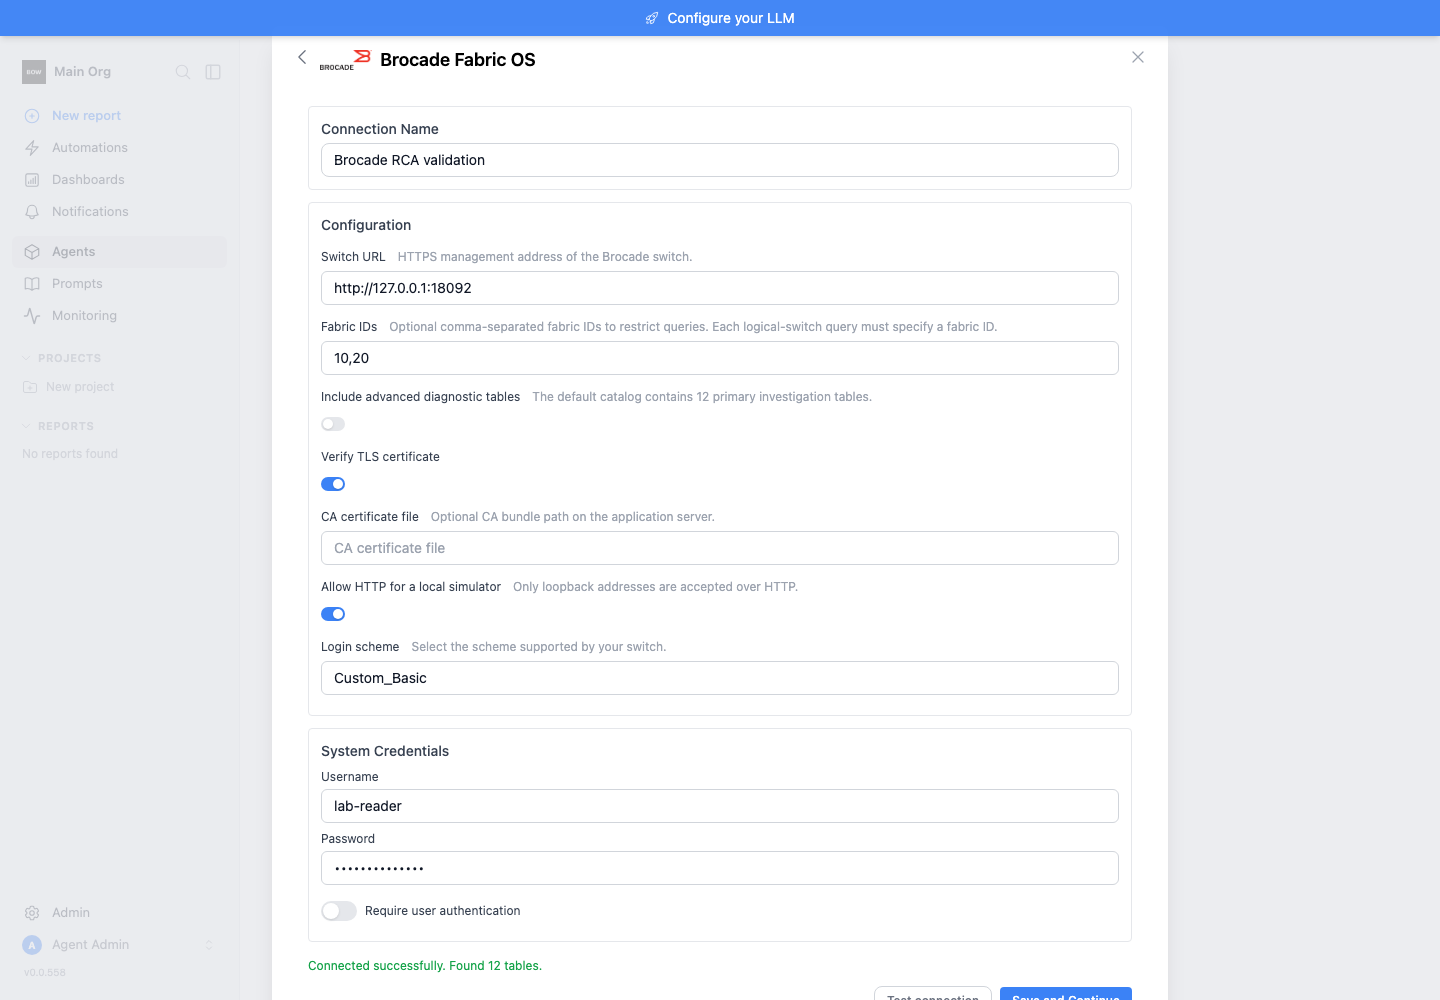
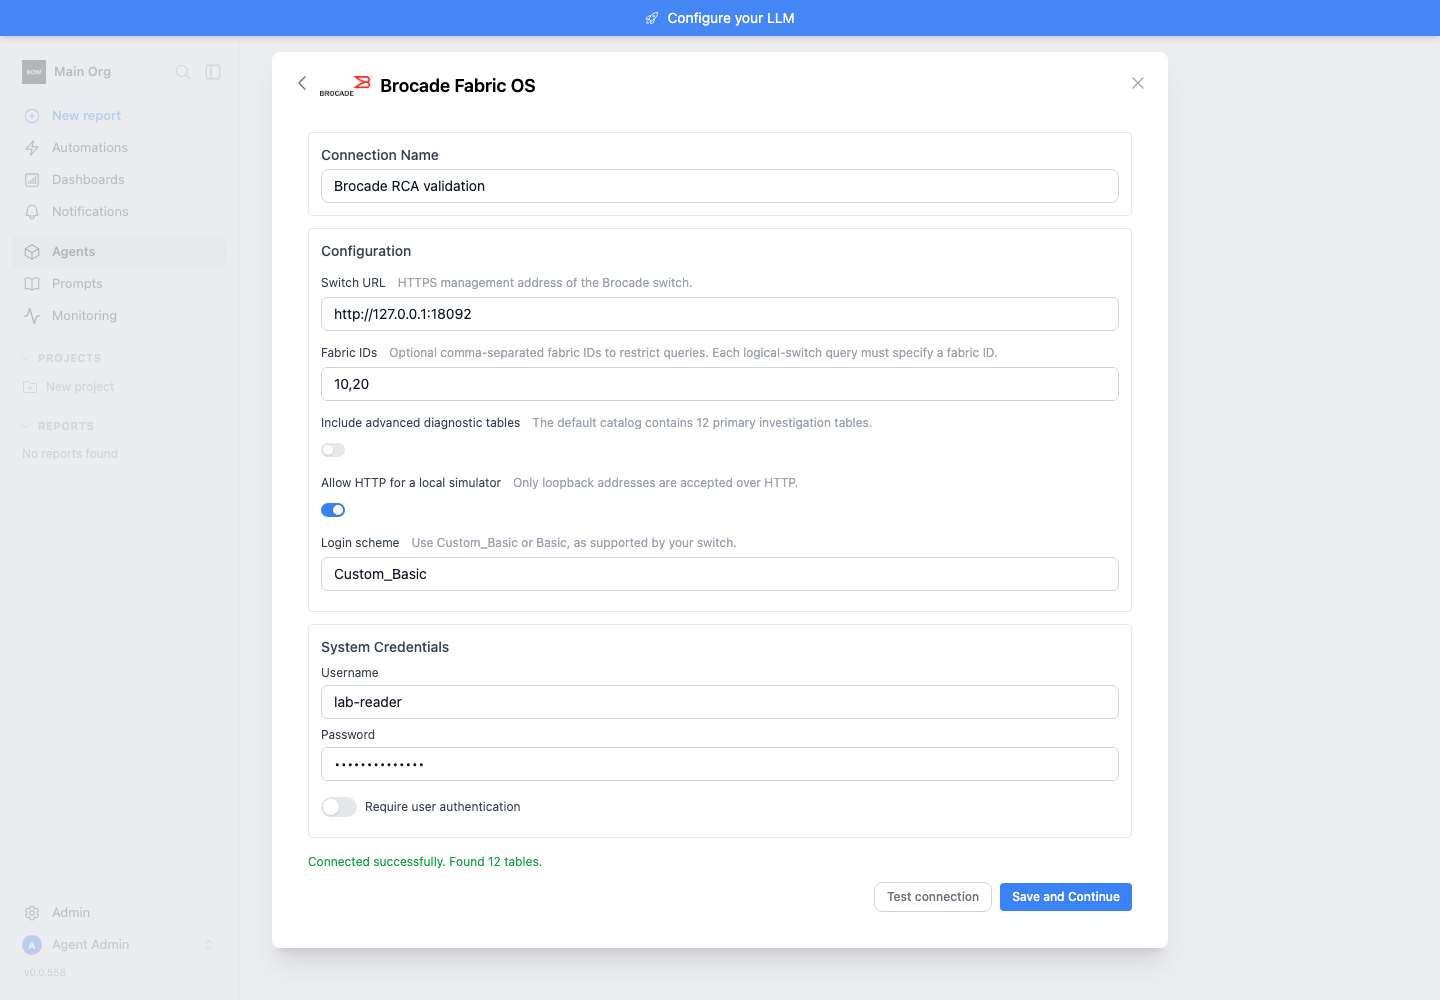
fix(brocade): use deployment-managed certificate trust

Changed region(s): [[0.2188, 0.124, 0.6875, 0.868], [0.1875, 0.868, 0.8125, 1.0], [0.2188, 0.031, 0.375, 0.093]]

diff --git a/backend/tests/integrations/test_brocade_tls.py b/backend/tests/integrations/test_brocade_tls.py
@@ -1,0 +1,60 @@
+"""Real HTTPS trust check with an ephemeral certificate and synthetic API."""
+import importlib.util
+import ipaddress
+import ssl
+import threading
+from datetime import datetime, timedelta, timezone
+from http.server import ThreadingHTTPServer
+from pathlib import Path
+
+import pytest
+from cryptography import x509
+from cryptography.hazmat.primitives import hashes, serialization
+from cryptography.hazmat.primitives.asymmetric import rsa
+from cryptography.x509.oid import NameOID
+
+from app.data_sources.clients.brocade_client import BrocadeClient, BrocadeError
+
+
+def test_deployment_ca_enforces_chain_and_hostname(tmp_path, monkeypatch):
+    spec = importlib.util.spec_from_file_location(
+        'brocade_tls_sim', Path(__file__).resolve().parents[3] / 'tools/brocade/simulated_api.py')
+    sim = importlib.util.module_from_spec(spec)
+    spec.loader.exec_module(sim)
+    key = rsa.generate_private_key(public_exponent=65537, key_size=2048)
+    name = x509.Name([x509.NameAttribute(NameOID.COMMON_NAME, 'Synthetic Brocade TLS test')])
+    now = datetime.now(timezone.utc)
+    certificate = (x509.CertificateBuilder().subject_name(name).issuer_name(name)
+        .public_key(key.public_key()).serial_number(x509.random_serial_number())
+        .not_valid_before(now - timedelta(minutes=1)).not_valid_after(now + timedelta(hours=1))
+        .add_extension(x509.BasicConstraints(ca=True, path_length=None), critical=True)
+        .add_extension(x509.SubjectAlternativeName([x509.IPAddress(ipaddress.ip_address('127.0.0.1'))]), critical=False)
+        .sign(key, hashes.SHA256()))
+    ca_path, key_path = tmp_path / 'ca.pem', tmp_path / 'key.pem'
+    ca_path.write_bytes(certificate.public_bytes(serialization.Encoding.PEM))
+    key_path.write_bytes(key.private_bytes(serialization.Encoding.PEM,
+        serialization.PrivateFormat.PKCS8, serialization.NoEncryption()))
+    key_path.chmod(0o600)
+    context = ssl.SSLContext(ssl.PROTOCOL_TLS_SERVER)
+    context.load_cert_chain(ca_path, key_path)
+    server = ThreadingHTTPServer(('127.0.0.1', 0), sim.Handler)
+    server.socket = context.wrap_socket(server.socket, server_side=True)
+    thread = threading.Thread(target=server.serve_forever, daemon=True)
+    monkeypatch.setenv('BROCADE_SIM_USER', 'lab-reader')
+    monkeypatch.setenv('BROCADE_SIM_PASSWORD', 'synthetic-only')
+    thread.start()
+    port = server.server_address[1]
+    try:
+        monkeypatch.delenv('REQUESTS_CA_BUNDLE', raising=False)
+        client = BrocadeClient(f'https://127.0.0.1:{port}', 'lab-reader', 'synthetic-only')
+        with pytest.raises(BrocadeError, match='TransportError'):
+            client.get_tables()
+        monkeypatch.setenv('REQUESTS_CA_BUNDLE', str(ca_path))
+        assert len(client.get_tables()) == 12
+        wrong_hostname = BrocadeClient(f'https://localhost:{port}', 'lab-reader', 'synthetic-only')
+        with pytest.raises(BrocadeError, match='TransportError'):
+            wrong_hostname.get_tables()
+    finally:
+        server.shutdown()
+        server.server_close()
+        thread.join(timeout=5)

diff --git a/backend/app/data_sources/clients/brocade_client.py b/backend/app/data_sources/clients/brocade_client.py
@@ -6,6 +6,7 @@ customer FOS 9.1.1c compatibility still requires a real-switch acceptance pass.
 import base64
 import json
 import math
+import os
 import re
 import threading
 import time
@@ -112,7 +113,7 @@ class BrocadeClient(DataSourceClient):
     relative_date_hint = 'Use lookback="30m" or "24h" on events/congestion_samples; port_statistics has no arbitrary history.'
 
     def __init__(self, url, username, password, vf_ids='', include_advanced=False,
-                 verify_ssl=True, ca_bundle=None, allow_http=False, login_scheme='Custom_Basic',
+                 allow_http=False, login_scheme='Custom_Basic',
                  timeout=30, max_rows=10000, max_response_bytes=8388608):
         parsed = urlsplit(str(url))
         if (parsed.scheme not in ('http', 'https') or not parsed.hostname or parsed.username or
@@ -136,7 +137,6 @@ class BrocadeClient(DataSourceClient):
         self.url = str(url).rstrip('/')
         self.username, self.password = username, password
         self.include_advanced = include_advanced
-        self.verify = ca_bundle or verify_ssl
         self.login_scheme, self.timeout = login_scheme, timeout
         self.max_rows, self.max_response_bytes = max_rows, max_response_bytes
         self._definitions = definitions()
@@ -166,7 +166,7 @@ class BrocadeClient(DataSourceClient):
             try:
                 with session.request(method, self.url + path,
                         params={'vf-id': vf_id} if vf_id is not None else None,
-                        timeout=min(self.timeout, remaining), verify=self.verify,
+                        timeout=min(self.timeout, remaining), verify=session.verify,
                         allow_redirects=False, stream=True) as response:
                     body = bytearray()
                     for chunk in response.iter_content(65536):
@@ -223,6 +223,8 @@ class BrocadeClient(DataSourceClient):
             deadline = time.monotonic() + 120
             with requests.Session() as session:
                 session.trust_env = False
+                # Match SharePoint Server: CA trust is deployment-owned; never disable TLS verification.
+                session.verify = os.environ.get("REQUESTS_CA_BUNDLE") or True
                 token = base64.b64encode(f'{self.username}:{self.password}'.encode()).decode()
                 session.headers.update({'Authorization': self.login_scheme + ' ' + token,
                     'Accept': 'application/yang-data+xml', 'Content-Type': 'application/yang-data+xml',

diff --git a/backend/tests/unit/test_brocade_client.py b/backend/tests/unit/test_brocade_client.py
@@ -251,3 +251,26 @@ def test_hardware_union_preserves_fractional_temperatures(client, boundary):
     assert next(c.dtype for c in schema.columns if c.name == 'temperature') == 'number'
     frame = client.execute_query(table='hardware', filter={'temperature': {'gt': 42.1}})
     assert len(frame) == 1 and frame.iloc[0]['temperature'] == 42.5
+
+
+@pytest.mark.parametrize('bundle', [None, '', '/etc/bow/company-ca.pem'])
+def test_tls_trust_uses_deployment_ca_with_verification_enabled(boundary, monkeypatch, bundle):
+    if bundle is None:
+        monkeypatch.delenv('REQUESTS_CA_BUNDLE', raising=False)
+    else:
+        monkeypatch.setenv('REQUESTS_CA_BUNDLE', bundle)
+    observed = []
+    original = requests.Session.request
+    def request(session, method, url, **kwargs):
+        observed.append(kwargs.get('verify', session.verify))
+        return original(session, method, url, **kwargs)
+    monkeypatch.setattr(requests.Session, 'request', request)
+    BrocadeClient('https://switch.example', 'lab-reader', 'synthetic-only').get_tables()
+    assert observed and all(value == (bundle or True) for value in observed)
+
+
+def test_connection_form_does_not_expose_certificate_overrides():
+    from app.schemas.data_sources.configs import BrocadeConfig
+    properties = BrocadeConfig.model_json_schema()['properties']
+    assert 'ca_bundle' not in properties
+    assert 'verify_ssl' not in properties

diff --git a/backend/app/schemas/data_sources/configs.py b/backend/app/schemas/data_sources/configs.py
@@ -3645,8 +3645,6 @@ class BrocadeConfig(BaseModel):
     url: str = Field(..., title="Switch URL", description="HTTPS management address of the Brocade switch.", json_schema_extra={"ui:type": "string"})
     vf_ids: str = Field("", title="Fabric IDs", description="Optional comma-separated fabric IDs to restrict queries. Each logical-switch query must specify a fabric ID.", json_schema_extra={"ui:type": "string"})
     include_advanced: bool = Field(False, title="Include advanced diagnostic tables", description="The default catalog contains 12 primary investigation tables.")
-    verify_ssl: bool = Field(True, title="Verify TLS certificate")
-    ca_bundle: Optional[str] = Field(None, title="CA certificate file", description="Optional CA bundle path on the application server.", json_schema_extra={"ui:type": "string"})
     allow_http: bool = Field(False, title="Allow HTTP for a local simulator", description="Only loopback addresses are accepted over HTTP.")
     login_scheme: Literal["Basic", "Custom_Basic"] = Field("Custom_Basic", title="Login scheme", description="Use Custom_Basic or Basic, as supported by your switch.")
 

diff --git a/docs/feedback-loops/brocade-connector.md b/docs/feedback-loops/brocade-connector.md
@@ -66,3 +66,21 @@ The production Nuxt build completed successfully, and its served UI also passed 
 This proves connector/application behavior for the modeled XML contracts, including failure behavior and RCA evidence preservation. It does not prove compatibility across real switch models, all 9.1.1c resource revisions, account roles, retention limits or SAN operating conditions. Module discovery reports advertisement, not actual read permission. Retained events are not guaranteed incident-window coverage; rates/counters and defined/effective zoning remain distinct.
 
 Real acceptance still requires the applicable 9.1.1c API contract, sanitized response replay and bounded read-only checks on representative customer hardware/FIDs/roles. Do not label the connector hardware-certified or claim that simulation establishes root cause in a real incident.
+
+## Deployment-managed CA follow-up
+
+Brocade now follows the existing SharePoint Server trust pattern: `REQUESTS_CA_BUNDLE` selects a deployment-mounted PEM bundle; unset/empty uses the default trust store. Verification remains enabled and the per-connection CA path and verification toggle are removed. NetApp, ServiceNow and SharePoint implementations were not changed.
+
+The new regression first produced two failures: the deployment CA was ignored, and the form exposed certificate overrides. After the change, all four new cases pass; the full connector/lifecycle/license suite passes 82/82 tests. A real local HTTPS test proves that an untrusted certificate fails, the configured CA succeeds, and a hostname mismatch still fails:
+
+```sh
+cd backend
+TESTING=true BOW_DATABASE_URL=sqlite:///db/brocade-test.db \
+  uv run pytest tests/integrations/test_brocade_tls.py -q
+```
+
+The test generates its own short-lived certificate and synthetic API; it needs no customer credentials. The existing production frontend build was reused because the change is entirely in the backend-generated form schema. The updated form has no certificate controls and its connection test still discovers 12 tables.
+
+| Previous form | Deployment-managed trust |
+| --- | --- |
+| ![Previous certificate controls](../../media/pr/brocade-rca-connector/connection-before-ca-change.png) | ![Simplified form](../../media/pr/brocade-rca-connector/connection.png) |

diff --git a/tools/brocade/README.md b/tools/brocade/README.md
@@ -39,7 +39,7 @@ For the app, select **Brocade Fabric OS**, enter `http://127.0.0.1:18092`, restr
 
 ## Production connection
 
-Use the switch HTTPS management origin, a read-only account authorized for the required FIDs and diagnostic resources, and certificate verification. For a private CA, configure the CA bundle path on the backend server. `Custom_Basic` session login is the default; `Basic` can be selected for a switch whose documented login endpoint uses that scheme. Both modes use the returned session Authorization header and logout afterward.
+Use the switch HTTPS management origin, a read-only account authorized for the required FIDs and diagnostic resources, and certificate verification. TLS certificate verification is always enabled. For a private CA, mount the PEM CA bundle in the backend/container and set `REQUESTS_CA_BUNDLE` to its path, matching SharePoint Server. With that variable unset or empty, the default Requests trust store is used. There is no per-connection certificate path or disable-verification toggle. `Custom_Basic` session login is the default; `Basic` can be selected for a switch whose documented login endpoint uses that scheme. Both modes use the returned session Authorization header and logout afterward.
 
 A connection covers one management endpoint. The connector does not authenticate to discovered neighbors. Configure additional switch connections for fabric-wide investigations. No SSH, RPC, raw URL execution, counter clearing or configuration writes are exposed.
 
